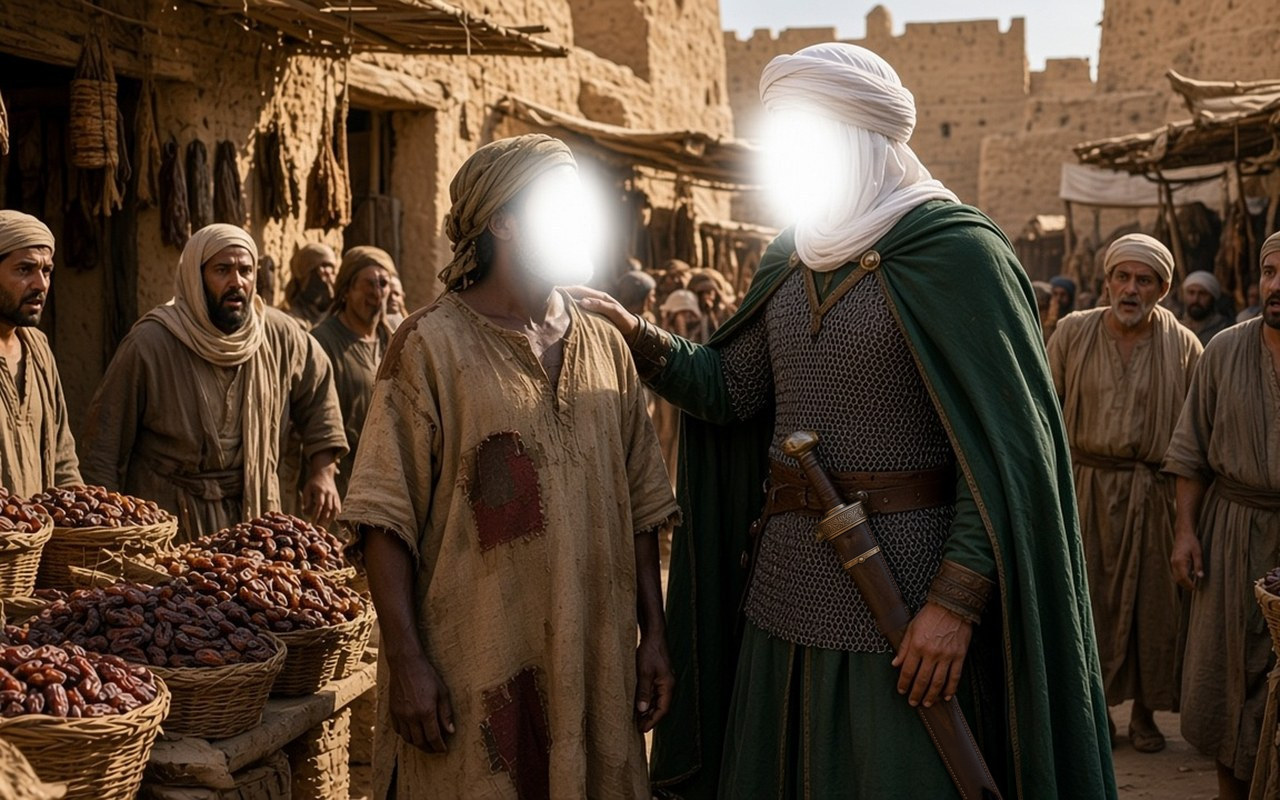
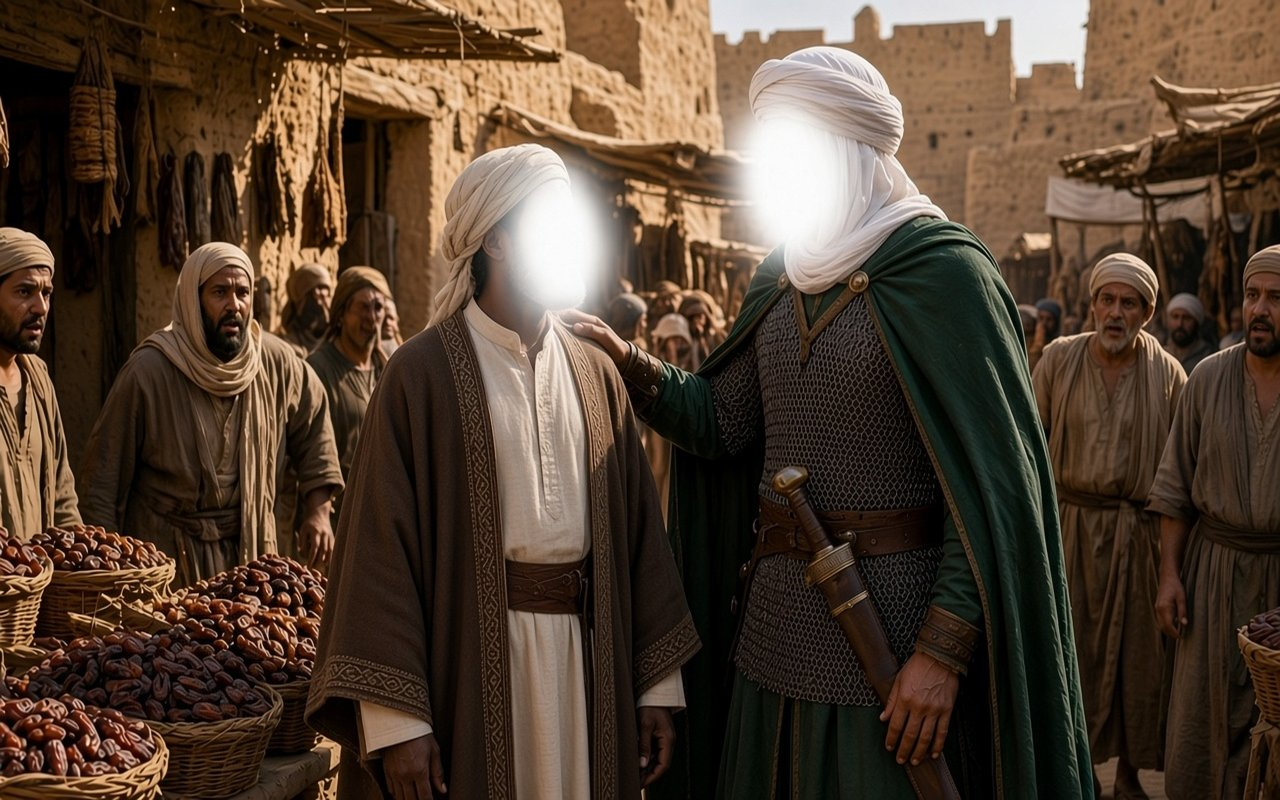
Meysem 1: dilenci cümlesi kaldırıldı; 3: sövdürme Muaviye'nin emriyle; 1-2 görsellerde şık kıyafet

diff --git a/app/src/data/meysem.ts b/app/src/data/meysem.ts
@@ -9,7 +9,7 @@ export const meysem: HistEvent = {
   hook: { tr: 'Hz. Ali, hurma satan dostuna asılacağı ağacı önceden gösterdi. O ağaç, hicri 60\'ta dar ağacı oldu.', en: 'Hz. Ali showed his friend the palm on which he would be hanged. In 60 AH that tree became the gallows.' },
   scenes: [
     {
-      text: { tr: '**Meysem et-Temmâr**, Kûfe çarşısında hurma satan bir adamdı. Temmâr, hurmacı demektir. Önceden köleydi, ama sonra azat edilmişti. Dilenci değildi. Kendi tezgâhının sahibiydi ve alnının teriyle geçimini sağlıyordu. **Hz. Ali**\'ye olan yakınlığıyla tanınırdı. Meysem de ondan öğrendiklerini, hurma satarken müşterilerine anlatırdı. Çarşının ortasındaki bu küçük tezgâh, Ehl-i Beyt\'in sözlerinin duyulduğu bir ders yerine dönüşmüştü. Yıllar sonra bu bağlılık, onun canına mal olacaktı.' },
+      text: { tr: '**Meysem et-Temmâr**, Kûfe çarşısında hurma satan bir adamdı. Temmâr, hurmacı demektir. Önceden köleydi, ama sonra azat edilmişti. Kendi tezgâhının sahibiydi ve alnının teriyle geçimini sağlıyordu. **Hz. Ali**\'ye olan yakınlığıyla tanınırdı. Meysem de ondan öğrendiklerini, hurma satarken müşterilerine anlatırdı. Çarşının ortasındaki bu küçük tezgâh, Ehl-i Beyt\'in sözlerinin duyulduğu bir ders yerine dönüşmüştü. Yıllar sonra bu bağlılık, onun canına mal olacaktı.' },
       art: { bg: 'city', props: ['palms', 'sun'], actors: [{ kind: 'man', x: 42, label: { tr: 'Meysem' } }, { kind: 'ali', x: 70, label: { tr: 'Hz. Ali' } }] },
       by: 'partial',
       cites: [{ side: 'shia', i: 0 }, { side: 'shia', i: 1 }, { side: 'sunni', i: 0 }],
@@ -21,7 +21,7 @@ export const meysem: HistEvent = {
       cites: [{ side: 'shia', i: 0 }, { side: 'shia', i: 2 }, { side: 'sunni', i: 0 }],
     },
     {
-      text: { tr: '**Hz. Ali**\'nin şehadetinden sonra Kûfe\'de zor günler başladı. Emevi valileri minberlerde Hz. Ali\'ye sövdürüyordu. Bu laneti kabul etmeyen **Hucr b. Adî** ve arkadaşları öldürülmüştü. Kûfe\'de Hz. Ali\'yi açıkça savunmanın bedeli artık ölüm olabilirdi. Birçok kişi korkudan sustu. Ama **Meysem**, çarşıdaki tezgâhının başında Ehl-i Beyt\'in faziletlerini anlatmayı bırakmadı. Hurmalarını satarken Hz. Ali\'nin sözlerini aktarmaya devam etti. Minberler lanet okurken çarşının ortasında küçük bir tezgâh, Hz. Ali\'nin adını sevgiyle anmayı sürdürdü.' },
+      text: { tr: '**Hz. Ali**\'nin şehadetinden sonra Kûfe\'de zor günler başladı. Muaviye\'nin emriyle valiler minberlerde Hz. Ali\'ye sövdürüyordu. Bu laneti kabul etmeyen **Hucr b. Adî** ve arkadaşları öldürülmüştü. Kûfe\'de Hz. Ali\'yi açıkça savunmanın bedeli artık ölüm olabilirdi. Birçok kişi korkudan sustu. Ama **Meysem**, çarşıdaki tezgâhının başında Ehl-i Beyt\'in faziletlerini anlatmayı bırakmadı. Hurmalarını satarken Hz. Ali\'nin sözlerini aktarmaya devam etti. Minberler lanet okurken çarşının ortasında küçük bir tezgâh, Hz. Ali\'nin adını sevgiyle anmayı sürdürdü.' },
       art: { bg: 'city', props: ['minbar'], actors: [{ kind: 'man', x: 30, pose: 'raise', label: { tr: 'Meysem' } }, { kind: 'crowd', x: 68, scale: 6 }] },
       by: 'shia',
       cites: [{ side: 'shia', i: 1 }],
